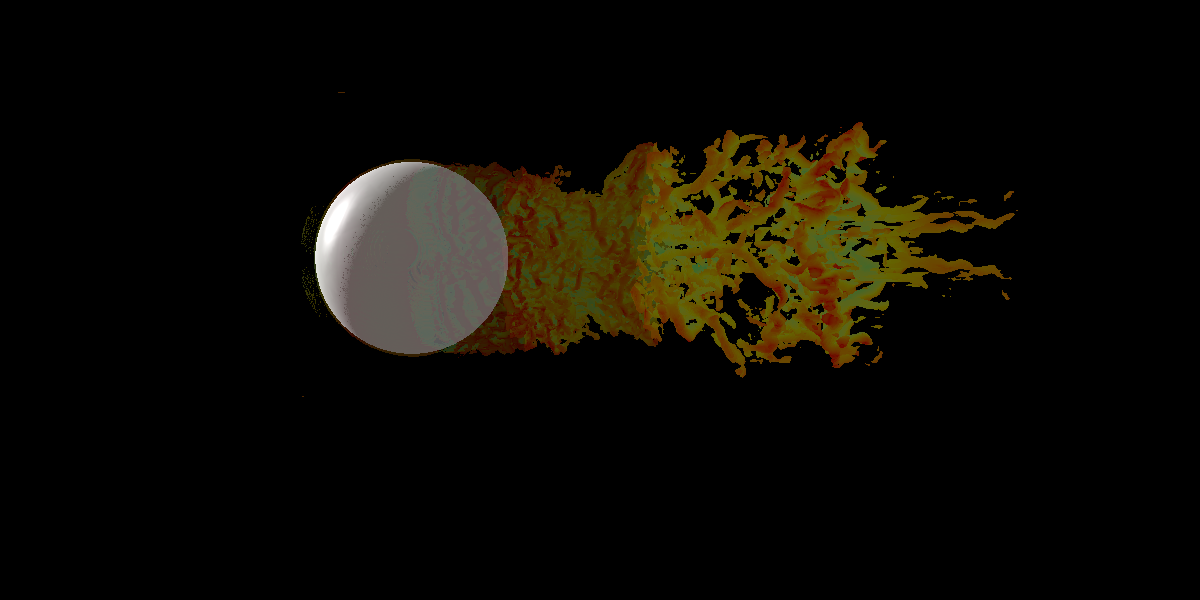
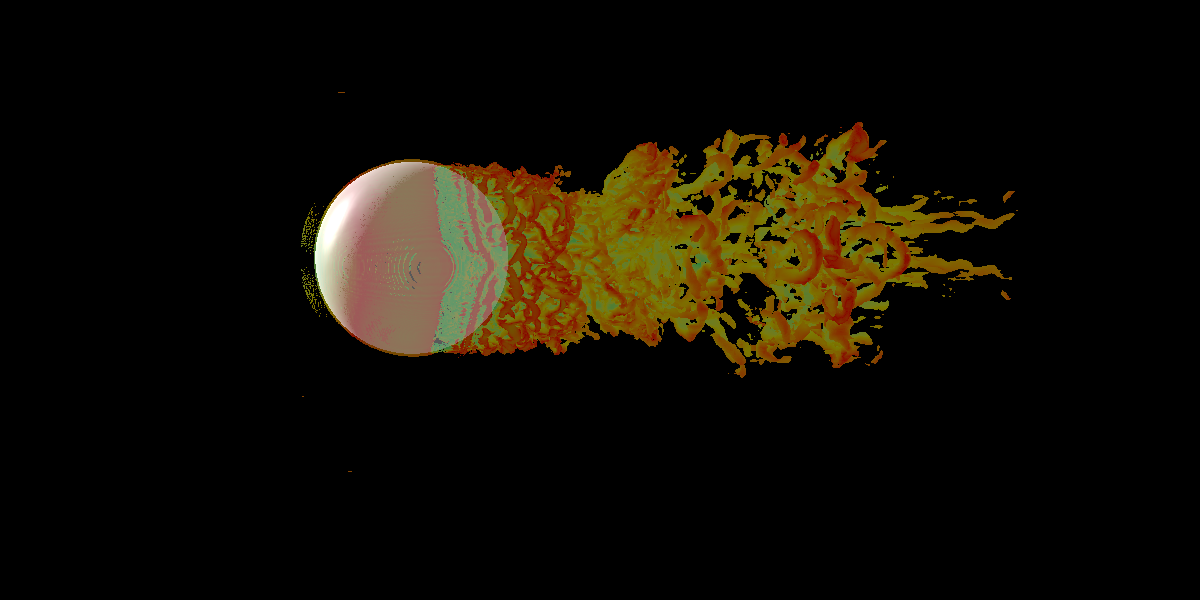
finished surface rendering

Changed region(s): [[0.2467, 0.21, 0.8325, 0.63]]

diff --git a/src/integrator.cpp b/src/integrator.cpp
@@ -38,35 +38,35 @@ void Integrator::render() const {
 }
 
 Vec3f Integrator::radiance(Ray &ray, float t0, float t1) const {
-    float step_size = scene->grids[0].dx / 2;
-    Vec3f src_color = Vec3f{0, 0, 0};
-    float src_opacity = 0;
-    auto dst_t = (float) fmax(t0 - step_size, ray.t0());
-    Vec3f dst_pos, dst_color;
-    float dst_opacity=0;
+    float step_size = scene->grids[0].dx / 4;
+    Vec3f src_color;
+    float src_opacity;
+    auto src_t = (float) fmax(t0 - step_size, ray.t0());
+    Vec3f src_pos, dst_color = Vec3f{0, 0, 0};
+    float dst_opacity = 0;
     float dx;
-    while (dst_t < t1 - step_size) {
-        if (dst_opacity > 1) break;
-        dst_t += step_size;
-        dst_pos = ray(dst_t);
-        std::tie(dst_color, dst_opacity, dx) = scene->getEmissionOpacity(dst_pos);
-        if (dx != 0) step_size = dx / 2;
+    while (src_t < t1 - step_size) {
+        src_t += step_size;
+        src_pos = ray(src_t);
+        std::tie(src_color, src_opacity, dx) = scene->getEmissionOpacity(src_pos);
+        if (dx != 0) step_size = dx / 4;
 
-        dst_color *= step_size;
-        dst_opacity = 1 - std::pow(1 - dst_opacity, step_size);
+//        src_color *= step_size;
+        src_opacity = (float) (1.0 - std::pow(1 - src_opacity, step_size));
 
         dst_color += (1 - dst_opacity) * src_color;
-        dst_opacity += (1 - dst_opacity) * src_opacity;
-
-        src_color = dst_color;
-        src_opacity = dst_opacity;
+        if (src_opacity > 1) {
+            dst_opacity = 1;
+        } else {
+            dst_opacity += (1 - dst_opacity) * src_opacity;
+        }
     }
     return dst_color;
 }
 
 Vec3f Integrator::radiance(Ray &ray, Interaction &interaction) const {
     Vec3f radiance(0, 0, 0);
-    Vec3f lightDir{10, -5, 10};
+    Vec3f lightDir{10, -5, -10};
     Vec3f lightColor{1, 1, 1};
     lightDir.normalize();
     Vec3f ambient{0.1, 0.1, 0.1};

diff --git a/src/main.cpp b/src/main.cpp
@@ -15,7 +15,7 @@ int main() {
     auto sphere = Reader::loadObj("dataset/sphere.obj", Vec3f(5, 2, 3), 4.0 / 3.0);
 //    util::applyTransform(sphere, Vec3f(5, 2, 3), 4.0 / 3.0);
 
-    std::shared_ptr<ImageRGB> image = std::make_shared<ImageRGB>(3840, 2160);
+    std::shared_ptr<ImageRGB> image = std::make_shared<ImageRGB>(1200, 600);
 //    Vec3f(10,0,-10)
     Camera cam(Vec3f(3, 3.2, 15), 19.5, 1, Vec3f(10,0,-10), Vec3f(0, 1, 0), image);
     Scene scene;

diff --git a/src/scene.cpp b/src/scene.cpp
@@ -148,7 +148,7 @@ Vec3f Scene::sampleEmission(float value, float opacity) const {
     if (opacity < 1e-3) {
         return {0, 0, 0};
     } else {
-        return 10 * color;
+        return color ;
     }
 
 //    return 2 * (a_coef * A + b_coef * B + c_coef * C + d_coef * D) * opacity;
